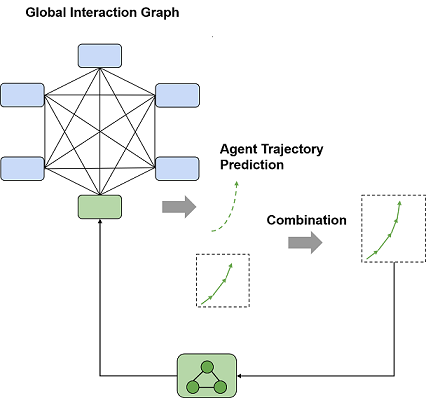
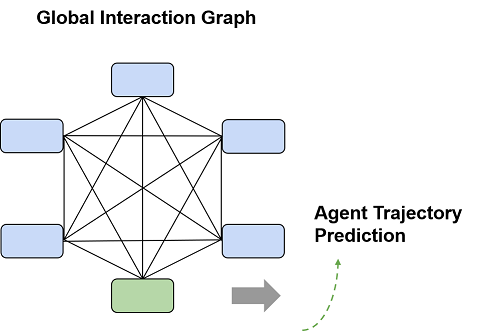
之前输出 [batch_size, 4, 29] 是错误的, 应该输出 [batch_size, 2, 30] ,这是在实现 DE@1s, DE@2s, DE@3s 的时候发现的, 而且不需要进行多次计算, 通过获得的 agent global graph node feature 直接对 [2, 5) 进行预测即可, 不需要以 0.1s 为间隔循环计算'

diff --git a/test_forward_backward.py b/test_forward_backward.py
@@ -1,6 +1,9 @@
+import warnings
+warnings.filterwarnings("ignore")
 
 from utils.losses import *
 from utils.process import *
+from utils.metricer import *
 from modeling.VectorNet import *
 from modeling.padding_VectorNet import *
 from dataloader.argov_dataset import dataloader
@@ -10,34 +13,37 @@ mode='loglike'
 def padding_model_test(model, padding_data_generator):
     loss_object = loss_collection(False)
     loss_cal = loss_object.construct_loss(mode)
+    metric = metricer()
+    print('padding model (requiring padding data input):')
+    count = 0
     for map_pres, train_traj, test_traj in padding_data_generator:
         predict_list = []
         model.map_encode(map_pres)
-        for i in range(test_traj.shape[-1]):
-            out = model(train_traj)
-            predict_list.append(out)
-            train_traj = torch.cat([train_traj, torch.unsqueeze(out, -1)], -1)
-        out = torch.stack(predict_list, -1)
+        out = model(train_traj)
         loss = loss_cal(out, test_traj)
-        print(out.shape, test_traj.shape)
-        print(loss)
-        return None
+        metric.add_batch(out, test_traj)
+        count += 1
+        print('batch [{}] predict shape: {} ground truth shape: {} loss: {}'.format(count, out.shape, test_traj.shape, loss))
+    DE1S, DE2s, DE3s, ADE = metric.calculate()
+    print('metric -- DE@1s:{} DE@2s:{} DE@3s:{} ADE:{}'.format(DE1S, DE2s, DE3s, ADE))
+    
 
 def model_test(model, data_generator):
     loss_object = loss_collection(False)
     loss_cal = loss_object.construct_loss(mode)
+    metric = metricer()
+    print('plain model:')
+    count = 0
     for map_pres, train_traj, test_traj in data_generator:
         predict_list = []
         model.map_encode(map_pres)
-        for i in range(test_traj.shape[-1]):
-            out = model(train_traj)
-            predict_list.append(out)
-            train_traj = [torch.cat([train_traj[i], torch.unsqueeze(out[i], -1)], -1) for i in range(len(train_traj))]
-        out = torch.stack(predict_list, -1)
+        out = model(train_traj)
         loss = loss_cal(out, test_traj)
-        print(out.shape, test_traj.shape)
-        print(loss)
-        return None
+        metric.add_batch(out, test_traj)
+        count += 1
+        print('batch [{}] predict shape: {} ground truth shape: {} loss: {}'.format(count, out.shape, test_traj.shape, loss))
+    DE1S, DE2s, DE3s, ADE = metric.calculate()
+    print('metric -- DE@1s:{} DE@2s:{} DE@3s:{} ADE:{}'.format(DE1S, DE2s, DE3s, ADE))
 
 batch_size = 2
 

diff --git a/utils/metricer.py b/utils/metricer.py
@@ -5,4 +5,31 @@ import numpy as np
 
 class metricer(object):
     def __init__(self):
-        pass
+        self.second_1_pr = []; self.second_1_gt = []
+        self.second_2_pr = []; self.second_2_gt = []
+        self.second_3_pr = []; self.second_3_gt = []
+
+    def add_batch(self, pr, gt):
+        self.second_1_pr.append(pr[:, :, 9]); self.second_1_gt.append(gt[:, :, 9])
+        self.second_2_pr.append(pr[:, :, 19]); self.second_2_gt.append(gt[:, :, 19])
+        self.second_3_pr.append(pr[:, :, 29]); self.second_3_gt.append(gt[:, :, 29])
+
+    def calculate(self):
+        self.second_1_pr = torch.cat(self.second_1_pr, axis=0)
+        self.second_1_gt = torch.cat(self.second_1_gt, axis=0)
+        self.second_2_pr = torch.cat(self.second_2_pr, axis=0)
+        self.second_2_gt = torch.cat(self.second_2_gt, axis=0)
+        self.second_3_pr = torch.cat(self.second_3_pr, axis=0)
+        self.second_3_gt = torch.cat(self.second_3_gt, axis=0)
+
+        DE1s = torch.mean(torch.abs(self.second_1_pr - self.second_1_gt))
+        DE2s = torch.mean(torch.abs(self.second_2_pr - self.second_2_gt))
+        DE3s = torch.mean(torch.abs(self.second_3_pr - self.second_3_gt))
+        ADE = (DE1s + DE2s + DE3s)/3
+
+        return DE1s, DE2s, DE3s, ADE
+
+    def flush(self):
+        self.second_1_pr = []; self.second_1_gt = []
+        self.second_2_pr = []; self.second_2_gt = []
+        self.second_3_pr = []; self.second_3_gt = []

diff --git a/modeling/padding_VectorNet.py b/modeling/padding_VectorNet.py
@@ -15,7 +15,7 @@ class padding_VectorNet(nn.Module):
         self.width_global = width_global
         self.polyline_embedding = padding_polyline_encoder(depth_sub, width_sub)
         self.global_interaction = padding_global_graph(depth_global, width_global, width_sub)
-        self.traj_decode = nn.Linear(width_global, 4)
+        self.traj_decode = nn.Linear(width_global, 2*30)
 
     def map_encode(self, lane_polylines_batches):
         # map polyline node feature is fixed.
@@ -29,18 +29,20 @@ class padding_VectorNet(nn.Module):
         temp = self.global_interaction(temp)
         temp = temp[:, :, -1]
         temp = self.traj_decode(temp)
+        length = temp.shape[-1]
+        temp = temp.reshape((-1, 2, int(length/2)))
 
         return temp
         
 
 if __name__ == '__main__':
-    model = VectorNet(3, 64, 1, 128)
+    model = padding_VectorNet(3, 64, 1, 128)
 
     map_vectors = torch.randn(2, 4, 9, 160)
 
-    model.map_encode(a)
+    model.map_encode(map_vectors)
 
-    trajectory = torch.randn(2, 4, 19, 1)
+    trajectory = torch.randn(2, 4, 19)
     
     out = model(trajectory)
     

diff --git a/utils/process.py b/utils/process.py
@@ -166,11 +166,9 @@ def scenario_vectorization(one_scenario):
         train_trajectory.append(vector)
 
     test_trajectory = []
-    for i in range(20, 49):
-        start = (agent_traj[i][0] - lc[0], agent_traj[i][1] - lc[1])
-        end = (agent_traj[i+1][0] - lc[0], agent_traj[i+1][1] - lc[1])
-        vector = np.array([*start, *end])
-        test_trajectory.append(vector)
+    for i in range(20, 50):
+        traj_point = (agent_traj[i][0] - lc[0], agent_traj[i][1] - lc[1])
+        test_trajectory.append(np.array(traj_point))
     
     return vector_sets, train_trajectory, test_trajectory
 
@@ -184,6 +182,8 @@ if __name__ == "__main__":
 
     print('scenario lane polylines num: {}'.format(len(map_pres))) 
     print('train trajectory vector num: {}\ntest trajectory vector num:{}'.format(len(train_trajectory), len(test_trajectory)))
+
+    print(test_trajectory[0])
 
     ap.visualization_lanes(ap.scenarios[0])
     ap.visualization_trajectory(ap.scenarios[0])

diff --git a/modeling/VectorNet.py b/modeling/VectorNet.py
@@ -16,7 +16,7 @@ class VectorNet(nn.Module):
         self.width_global = width_global
         self.polyline_embedding = polyline_encoder(depth_sub, width_sub)
         self.global_interaction = global_graph(depth_global, width_global, width_sub)
-        self.traj_decode = nn.Linear(width_global, 4)
+        self.traj_decode = nn.Linear(width_global, 2*30)
 
     def map_encode(self, lane_polylines_batches):
         """
@@ -49,6 +49,8 @@ class VectorNet(nn.Module):
             temp = self.global_interaction(temp)
             temp = temp[:, :, -1]
             traj_predict = self.traj_decode(temp)
+            length = traj_predict.shape[-1]
+            traj_predict = traj_predict.reshape((-1, 2, int(length/2)))
             traj_predict_batch.append(traj_predict)
         
         return torch.cat(traj_predict_batch, 0)

diff --git a/readme.md b/readme.md
@@ -56,7 +56,7 @@ python test_forward_backward.py
 
 ## Global graph
 
-全局网络通过 GNN 之后会将所有的节点都更新一遍, 而这些更新了的节点中的与 agent trajectory 有关的项就可以提取出来使用 decoder 来解码, 并预测下一时刻的向量, 而重要的是我们需要预测接下来的 [2s, 5s) 的所有 trajectory 向量, 所以需要通过输入已经预测出来的 trajectory 向量合并到 agent 的 polyline 重新计算与 agent trajectory 有关的节点, 来预测已经预测出来的时刻的下一时刻.  
+全局网络通过 GNN 之后会将所有的节点都更新一遍, 而这些更新了的节点中的与 agent trajectory 有关的项就可以提取出来使用 decoder 来解码, 通过解码之后直接预测出接下来时间 [2s, 5s) 内的所有轨迹点。~~并预测下一时刻的向量, 而重要的是我们需要预测接下来的 [2s, 5s) 的所有 trajectory 向量, 所以需要通过输入已经预测出来的 trajectory 向量合并到 agent 的 polyline 重新计算与 agent trajectory 有关的节点, 来预测已经预测出来的时刻的下一时刻.~~  
   
 ![](material/readme_pic/global_graph.png)  
   
@@ -90,12 +90,25 @@ waiting to explain...
 
 waiting to explain...
 
+## some problems
+
+### The first item (solved)
+
+<span id = "problem1"></span>
+![](material/readme_pic/problem1.png)
+  
+When outputting trajectory, the network need to output all trajectory points from 2s to 5s. 
+  
+### The second item
+
+pass
+
 ## Reference
 
 <span id = "ref1">[1] Gao J, Sun C, Zhao H, et al. VectorNet: Encoding HD Maps and Agent Dynamics from Vectorized Representation[J]. arXiv preprint arXiv:2005.04259, 2020.</span>  
 <span id = "ref2">[2] Chang M F, Lambert J, Sangkloy P, et al. Argoverse: 3d tracking and forecasting with rich maps[C]//Proceedings of the IEEE Conference on Computer Vision and Pattern Recognition. 2019: 8748-8757.</span>  
 <span id = "ref3">[3] Vaswani A, Shazeer N, Parmar N, et al. Attention is all you need[C]//Advances in neural information processing systems. 2017: 5998-6008.</span>  
 [[4] NLP中的 Attention 机制](https://zhuanlan.zhihu.com/p/59698165)  
-[[5] 自然语言处理中的自注意力机制（Self-attention Mechanism）](https://www.cnblogs.com/robert-dlut/p/8638283.html)
-<span id = "ref6">[6] Luo W, Yang B, Urtasun R. Fast and furious: Real time end-to-end 3d detection, tracking and motion forecasting with a single convolutional net[C]//Proceedings of the IEEE conference on Computer Vision and Pattern Recognition. 2018: 3569-3577.</span>
+[[5] 自然语言处理中的自注意力机制（Self-attention Mechanism）](https://www.cnblogs.com/robert-dlut/p/8638283.html)  
+<span id = "ref6">[6] Luo W, Yang B, Urtasun R. Fast and furious: Real time end-to-end 3d detection, tracking and motion forecasting with a single convolutional net[C]//Proceedings of the IEEE conference on Computer Vision and Pattern Recognition. 2018: 3569-3577.</span>  
 <span id = "ref7">[7] Casas S, Luo W, Urtasun R. Intentnet: Learning to predict intention from raw sensor data[C]//Conference on Robot Learning. 2018: 947-956.</span>
